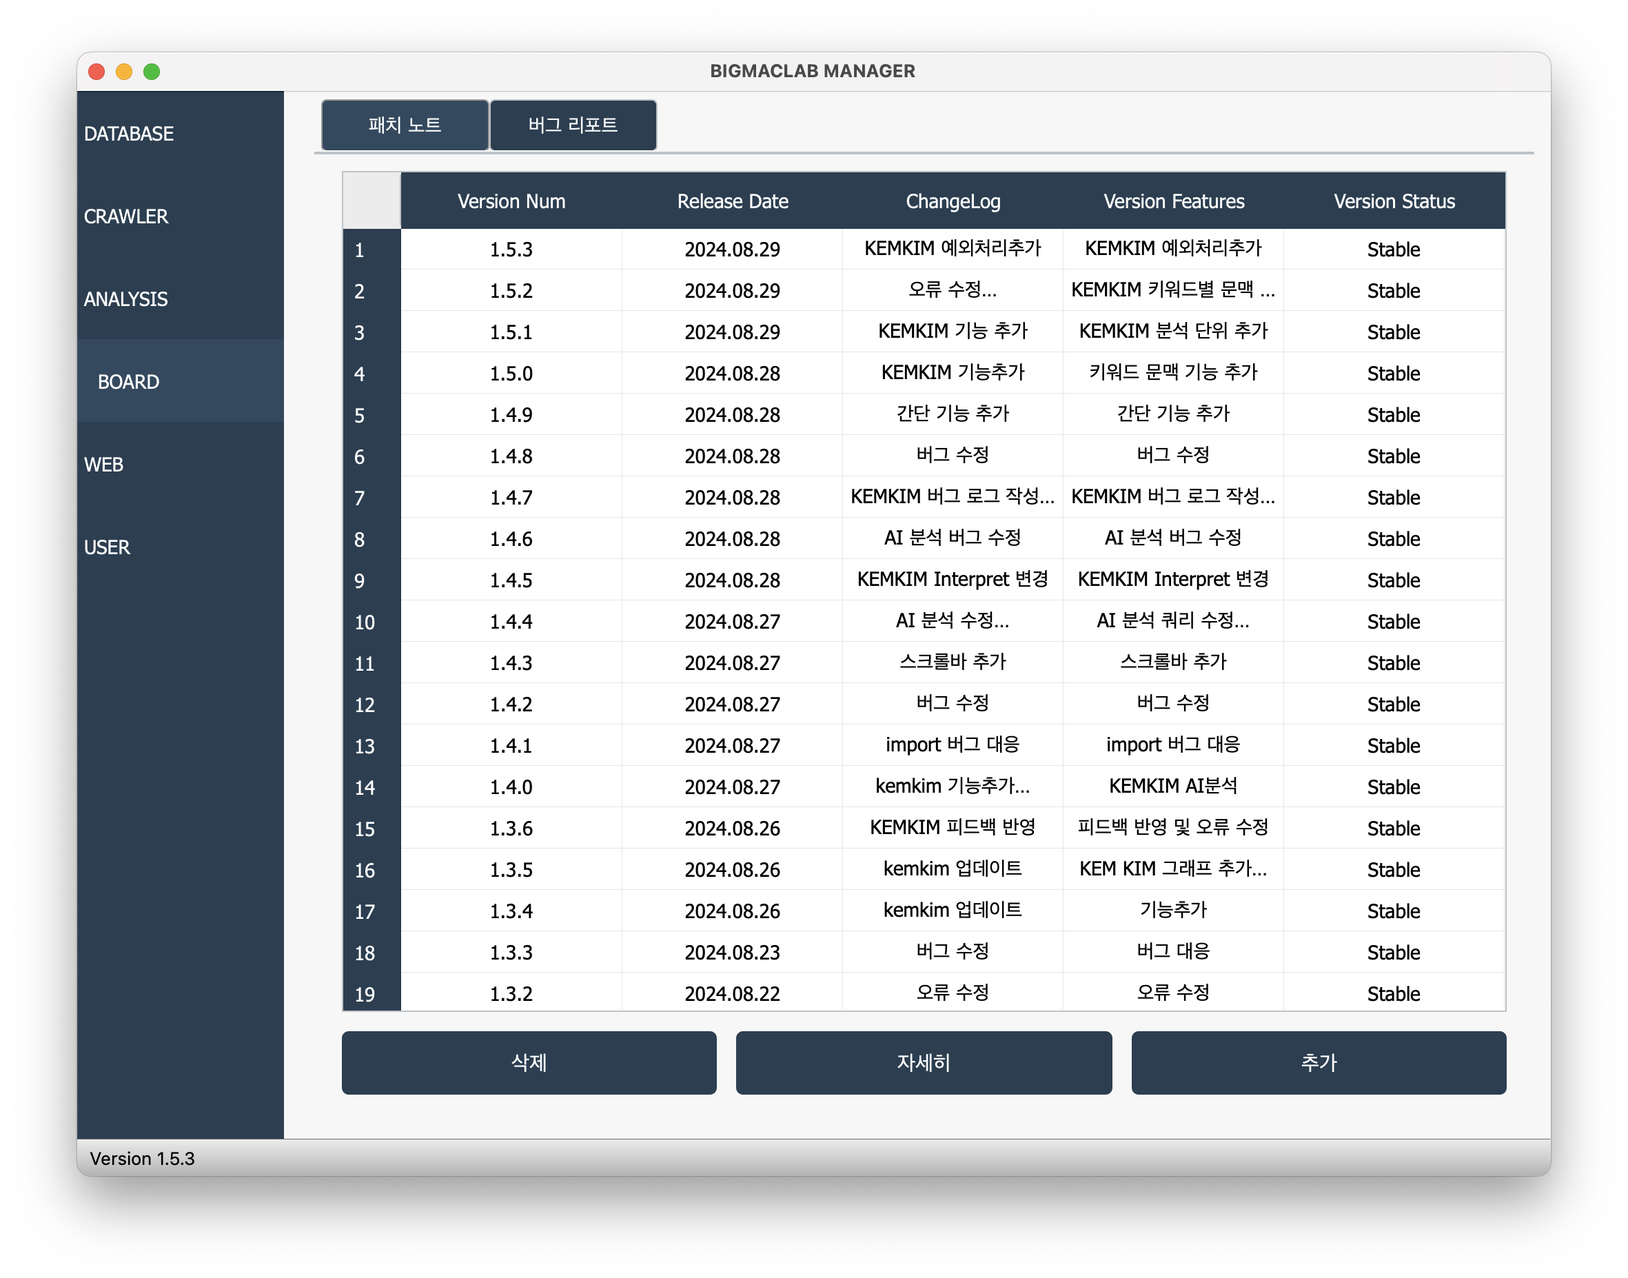
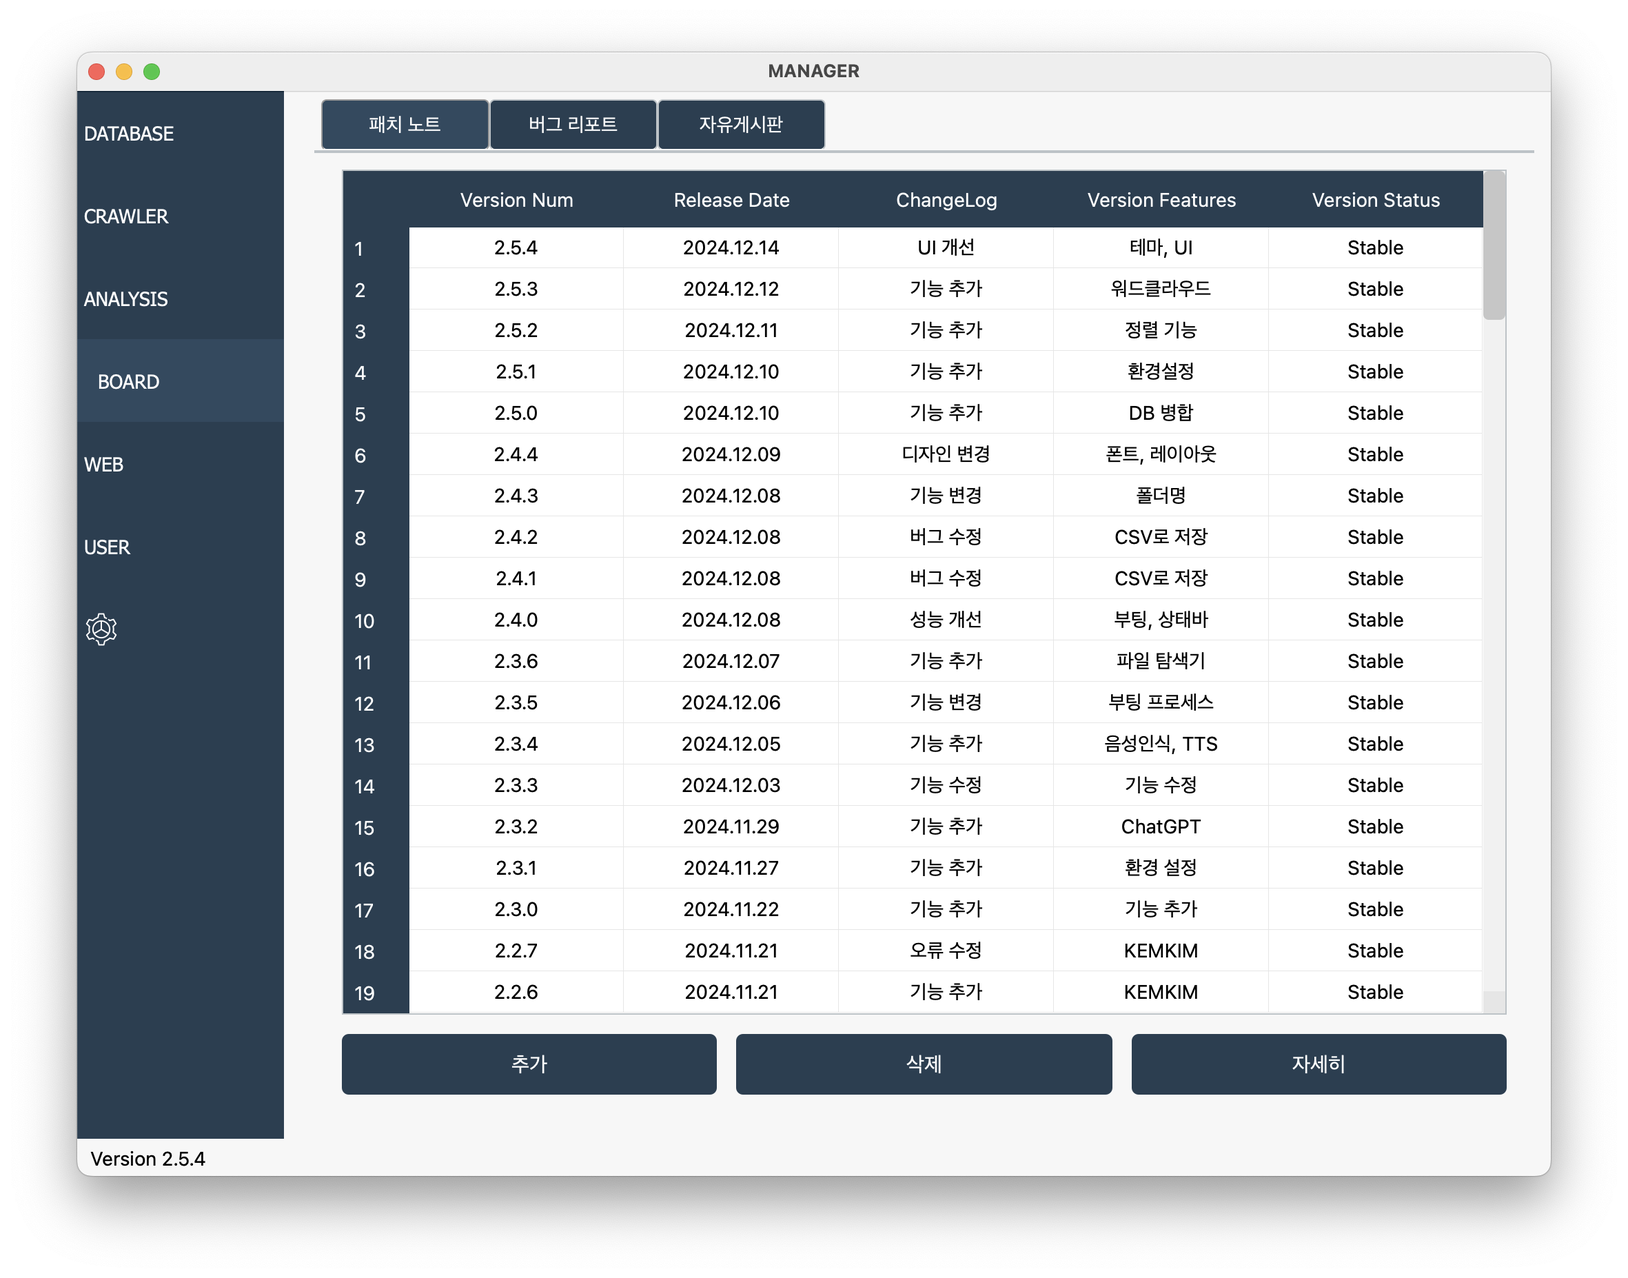
update

diff --git a/public/bigmaclab_manager.html b/public/bigmaclab_manager.html
@@ -194,49 +194,68 @@
         </ul>
 
         <div class="download-section">
-            <h2>Download BIGMACLAB MANAGER</h2>
-            <p>아래 버튼을 클릭하여 최신 버전의 BIGMACLAB MANAGER를 다운로드할 수 있습니다.</p>
+            <h2>Download MANAGER</h2>
+            <p>아래 버튼을 클릭하여 최신 버전의 MANAGER를 다운로드할 수 있습니다.</p>
             <a href="https://knpu.re.kr:90" target="_blank" class="download-button">Download</a>
         </div>
 
         <div class="content">
             <h2 id="database">1. DATABASE</h2>
             <h3>1.1 개요</h3>
-            <p>DATABASE 섹션은 BIGMACLAB MANAGER에서 DB와 관련된 모든 작업을 처리하는 곳입니다. 이 섹션을 통해 사용자는 DB를 불러오고, 갱신하며, 필요한 데이터를 쉽게 조회할 수 있습니다. 또한, DB의 삭제, 조회, 검색, 저장 등의 다양한 기능을 제공합니다.</p>
+            <p>DATABASE 섹션은 MANAGER에서 DB와 관련된 모든 작업을 처리하는 곳입니다. 이 섹션을 통해 사용자는 DB를 불러오고, 갱신하며, 필요한 데이터를 쉽게 조회할 수 있습니다. 또한, DB의 삭제, 조회, 검색, 저장, 병합 등의 다양한 기능을 제공합니다.</p>
             <img src="assets/img/bigmaclab_manager/database.png" alt="Database Overview" style="width: 100%; height: auto;" />
             <h3>1.2 사용 방법</h3>
             <p>DATABASE 섹션의 주요 기능은 다음과 같습니다:</p>
             <ul>
                 <li><strong>DB 삭제</strong></li>
                 <li><strong>DB 조회</strong></li>
+                <li><strong>DB 병합</strong></li>
                 <li><strong>CSV로 저장</strong></li>
             </ul>
 
             <h4>1.2.1 검색</h4>
             <p><button class="button">검색</button></p>
-            <p>검색 창에 검색어를 입력한 후 엔터 키 또는 버튼을 클릭하면, DB 목록에서 해당 검색어가 포함된 항목을 자동으로 찾아 선택합니다. 추가적으로 검색할 경우, 검색은 현재 선택된 행 이후부터 시작되며, 결과가 없을 경우 목록의 처음부터 다시 검색을 시작합니다.</p>
+            <p>검색 창에 검색어를 입력한 후 Enter 키 또는 버튼을 클릭하면, DB 목록에서 해당 검색어가 포함된 항목을 자동으로 찾아 선택합니다. 추가적으로 검색할 경우, 검색은 현재 선택된 행 이후부터 시작되며, 결과가 없을 경우 목록의 처음부터 다시 검색을 시작합니다.</p>
 
             <h4>1.2.2 새로고침</h4>
-            <p><button class="button">새로고침</button></p>
-            <p>버튼을 클릭하면 DB 목록이 최신 상태로 갱신됩니다.</p>
+            <p>Ctrl+R 단축키를 누르면 DB 목록이 최신 상태로 갱신됩니다.</p>
+            <p>자동 새로고침은 환경설정에서 설정 가능합니다.</p>
             
             <h4>1.2.3 DB 삭제</h4>
             <p><button class="button">DB 삭제</button></p>
-            <p>DB를 삭제할 수 있는 기능입니다. DB 목록에서 삭제할 항목을 선택한 후 버튼을 클릭하면, 삭제 확인 메시지가 나타납니다. 크롤링이 진행 중인 데이터베이스를 삭제하려는 경우, 크롤링을 중단할 것인지 묻는 메시지가 나타납니다. 삭제가 완료되면 크롤링이 진행 중인 경우, 크롤링이 중단되며 DB 목록이 새로 고침됩니다.</p>
-            
+            <p>DB를 삭제할 수 있는 기능입니다. 본인의 DB만 삭제할 수 있으며 DB 목록에서 삭제할 항목을 선택한 후 버튼을 클릭하면, 삭제 확인 메시지가 나타납니다.</p>
+            <img src="assets/img/bigmaclab_manager/database_delete_1.png" alt="Database DeleteDialog" style="width: 40%; height: auto;" />
+            <p>크롤링이 진행 중인 데이터베이스를 삭제하려는 경우, 크롤링을 중단할 것인지 묻는 메시지가 나타납니다.</p>
+            <img src="assets/img/bigmaclab_manager/database_delete_2.png" alt="Database DeleteDialog" style="width: 40%; height: auto;" />
+            <p>삭제가 완료되면 크롤링이 진행 중인 경우, 크롤링이 중단되며 DB 목록이 새로고침됩니다.</p>
+
             <h4>1.2.4 DB 조회</h4>
             <p><button class="button">DB 조회</button></p>
             <p>크롤링 데이터를 간단하게 조회할 수 있는 기능입니다. DB 목록에서 조회 항목을 선택한 후 버튼를 클릭하면, 모든 크롤링 데이터의 처음과 끝 50개의 행을 불러와서 보여줍니다.</p>
+            <img src="assets/img/bigmaclab_manager/database_view_1.png" alt="Database ViewDialog" style="width: 40%; height: auto;" />
 
-            <h4>1.2.4 CSV로 저장</h4>
+            <h4>1.2.5 DB 병합</h4>
+            <p><button class="button">DB 병합</button></p>
+            <p>연속된 날짜의 크롤링 데이터를 병합할 수 있는 기능입니다. 병합 가능한 두 DB의 조건은 다음과 같습니다.</p>
+            <img src="assets/img/bigmaclab_manager/database_merge_1.png" alt="Database MergeDialog" style="width: 30%; height: auto;" />
+            <p>병합 가능한 DB가 존재하면 팝업창 DB 리스트에서 병합할 DB를 선택합니다.</p>
+            <img src="assets/img/bigmaclab_manager/database_merge_2.png" alt="Database MergeDialog" style="width: 30%; height: auto;" />
+
+            <h4>1.2.6 CSV로 저장</h4>
             <p><button class="button">CSV로 저장</button></p>
-            <p>데이터베이스를 CSV 파일로 저장할 수 있습니다. 버튼을 클릭하면, 저장할 위치를 선택한 후 전체 기간 저장 또는 특정 기간 저장을 선택할 수 있는 옵션이 나타납니다. 특정 기간을 선택할 경우, 시작 날짜와 종료 날짜를 입력해야 합니다. 저장된 파일은 선택한 디렉토리에 저장됩니다.</p>
-            <div class="warning">
-                <p>주의: 이 기능은 네트워크 상황에 따라 시간이 오래 소요되며, 저장 중에는 프로그램이 멈춘 것처럼 보이나 정상입니다</p>
-            </div>
+            <p>데이터베이스를 CSV 파일로 저장할 수 있습니다. 버튼을 클릭하면, 저장할 위치를 선택하면 저장 옵션을 설정할 수 있습니다.</p> 
+            <img src="assets/img/bigmaclab_manager/database_save_1.png" alt="Database SaveDialog" style="width: 20%; height: auto;" />
+            <p>기간 설정을 클릭 후 날짜를 "%Y%M%D" 형식으로 입력하면 해당 기간에 해당하는 데이터만 다운받을 수 있습니다.</p>
+            <img src="assets/img/bigmaclab_manager/database_save_2.png" alt="Database SaveDialog" style="width: 20%; height: auto;" />
+            <p>필터링 설정을 클릭 후 날짜를 단어를 "단어1, 단어2" 형식으로 입력하면 해당 단어를 포함 또는 제외한 데이터만 다운받을 수 있습니다.</p>
+            <p>포함 문자 옵션: 입력한 단어를 "모두" 또는 "개별"로 포함하는 행만 추출하여 저장합니다</p>
+            <p>제외 문자 옵션: 입력한 단어를 "모두" 또는 "개별"로 제외하는 행만 추출하여 저장합니다</p>
+            <img src="assets/img/bigmaclab_manager/database_save_3.png" alt="Database SaveDialog" style="width: 20%; height: auto;" />
 
-            <h4>1.2.5 DB 정보</h4>
-            <p>크롤링 데이터를 간략하게 확인할 수 있는 기능입니다. DB 목록에서 DB을 선택한 후, 마우스 우클릭을 누르면 정보 열람이 가능합니다. 이 기능은 데이터베이스의 특정 항목을 확인해야 할 때 유용하며, 상세 정보에는 데이터베이스 이름, 크롤링 타입, 키워드, 기간, 옵션, 시작 및 종료 시간, 요청자, 서버, 속도, 크롤링 결과 등이 포함됩니다.</p>
+            <h4>1.2.7 DB 정보</h4>
+            <p>크롤링 데이터를 간략하게 확인할 수 있는 기능입니다. DB 목록에서 DB을 선택한 후, 마우스 우클릭을 누르면 정보 열람이 가능합니다. 이 기능은 데이터베이스의 특정 항목을 확인해야 할 때 유용하며, 상세 정보에는 데이터베이스 이름, 크롤링 타입, 키워드, 기간, 옵션, 시작 및 종료 시간, 요청자, 서버, 크롤링 결과 등이 포함됩니다.</p>
+            <img src="assets/img/bigmaclab_manager/database_info.png" alt="Database SaveDialog" style="width: 40%; height: auto;" />
+
 
             <h2 id="crawler">2. CRAWLER</h2>
             
@@ -265,7 +284,7 @@
             <ul>
                 <li><strong>분할(년/월)</strong></li>
                 <li><strong>CSV 병합</strong></li>
-                <li><strong>데이터 분석</strong></li>
+                <li><strong>통계 분석</strong></li>
                 <li><strong>KEM KIM</strong></li>
             </ul>
             
@@ -275,16 +294,20 @@
 
             <h4>1.2.1.2 CSV 병합</h4>
             <p><button class="button">CSV 병합</button></p>
-            <p>선택한 여러 CSV 파일의 데이터를 병합하여 하나의 CSV로 저장할 수 있습니다. 파일 탐색기에서 여러 개의 CSV 파일을 선택한 뒤에, 하단의 Open 버튼을 클릭하고, 병합 버튼을 클릭하면 병합 파일의 이름을 입력할 수 있는 창이 나옵니다. 이름을 입력하면 선택한 CSV 파일이 위치한 디렉토리에 병합 CSV가 저장됩니다</p>
+            <p>선택한 여러 CSV 파일의 데이터를 병합하여 하나의 CSV로 저장할 수 있습니다. 파일 탐색기에서 여러 개의 CSV 파일을 선택한 뒤에, 하단의 Open 버튼을 클릭하고, 병합 버튼을 클릭하면 병합 파일의 이름을 입력할 수 있는 창이 나옵니다.</p>
+            <img src="assets/img/bigmaclab_manager/analysis_merge.png" alt="Analysis MergeDialog" style="width: 20%; height: auto;" />
+            <p>이름을 입력하면 선택한 CSV 파일이 위치한 디렉토리에 병합 CSV가 저장됩니다.</p>
             <div class="warning">
                 <p>주의: 여러 CSV 파일을 선택한 후 하단의 "Open" 버튼을 클릭해야 선택이 완료되며, 선택한 CSV 파일들의 형식(예: 열 이름)은 같아야 합니다</p>
             </div>
 
-            <h4>1.2.1.3 데이터 분석</h4>
-            <p><button class="button">데이터 분석</button></p>
-            <p>선택한 CSV 파일의 데이터를 여러 지표로 분석합니다. 파일 탐색기에서 분석할 CSV 파일을 선택한 뒤에 버튼을 클릭하고 해당 크롤링 데이터에 맞게 옵션을 선택합니다. 분석 데이터는 해당 크롤링 데이터 CSV의 상위 디렉토리에 저장됩니다</p>
+            <h4>1.2.1.3 통계 분석</h4>
+            <p><button class="button">통계 분석</button></p>
+            <p>선택한 CSV 파일의 데이터를 여러 지표로 분석합니다. 파일 탐색기에서 분석할 CSV 파일을 선택한 뒤에 버튼을 클릭하고 해당 크롤링 데이터에 맞게 옵션을 선택합니다.</p>
+            <img src="assets/img/bigmaclab_manager/analysis_statistics.png" alt="Analysis StatisticsDialog" style="width: 20%; height: auto;" />
+            <p>분석 데이터는 해당 크롤링 데이터 CSV의 상위 디렉토리에 저장됩니다.</p>
             <div class="warning">
-                <p>주의: 크롤링 데이터의 종류와 옵션이 일치해야 합니다.</p>
+                <p>주의: 크롤링 데이터의 종류와 선택한 옵션이 일치해야 합니다.</p>
             </div>
             
             <h4>1.2.1.4 KEM KIM</h4>
@@ -305,24 +328,9 @@
             <p><button class="button">분할(년/월)</button></p>
             <p>DB 내의 테이블 데이터를 년도별 또는 월별로 분할하여 저장할 수 있습니다. DB를 선택 후, 버튼을 클릭한 뒤에 분할 데이터를 저장할 디렉토리를 선택하여 실행합니다</p>
 
-            <h4>1.2.2.2 데이터 분석</h4>
-            <p><button class="button">데이터 분석</button></p>
+            <h4>1.2.2.2 통계 분석</h4>
+            <p><button class="button">통계 분석</button></p>
             <p>DB 내의 모든 테이블 데이터를 여러 지표로 분석합니다. DB를 선택 후, 버튼을 클릭한 뒤에 분할 데이터를 저장할 디렉토리를 선택하여 실행합니다</p>
-
-            <h4>1.2.3 User DB 탭</h4>
-            <p>User DB 탭에서는 사용자가 자신의 데이터베이스를 관리할 수 있습니다. 새로운 데이터를 추가하거나, 기존 데이터를 삭제, 조회, 다운로드할 수 있습니다.</p>
-            <ul>
-                <li><strong>데이터 추가:</strong> <button class="button">추가</button> 버튼을 클릭하여 사용자 데이터베이스에 새로운 데이터를 추가할 수 있습니다.</li>
-                <li><strong>데이터 삭제:</strong> <button class="button">삭제</button> 버튼을 클릭하여 선택된 데이터를 삭제할 수 있습니다.</li>
-                <li><strong>데이터 조회:</strong> <button class="button">조회</button> 버튼을 클릭하여 데이터베이스의 데이터를 조회할 수 있습니다.</li>
-                <li><strong>데이터 다운로드:</strong> <button class="button">다운</button> 버튼을 클릭하여 선택된 데이터를 다운로드할 수 있습니다.</li>
-            </ul>
-
-            <h3>3.3 주의사항</h3>
-            <div class="warning">
-                <p>주의: 데이터 삭제 작업은 되돌릴 수 없습니다. 데이터를 삭제하기 전에 신중하게 검토하십시오.</p>
-            </div>
-
 
             <h2 id="board">4. BOARD</h2>
             
@@ -332,17 +340,20 @@
             <h3>4.2 사용 방법</h3>
             <p>BOARD 섹션에서 수행할 수 있는 작업은 다음과 같습니다:</p>
             <ul>
-                <li><strong>버전 관리:</strong></li>
+                <li><strong>패치 노트</strong></li>
                 <li><strong>버그 리포트:</strong></li>
+                <li><strong>자유게시판</strong></li>
             </ul>
 
             <h4>4.2.1 버전 추가</h4>
             <p><button class="button">추가</button></p>
             <p>버튼을 클릭하면 새로운 프로그램 버전을 추가할 수 있는 창이 열립니다. 여기서 버전 번호, 릴리스 날짜, 변경 사항 등을 입력할 수 있습니다. MANAGER Admin만 사용할 수 있는 기능입니다</p>
+            <img src="assets/img/bigmaclab_manager/board_version_1.png" alt="Analysis VersionDialog" style="width: 20%; height: auto;" />
             
             <h4>4.2.2 버전 자세히</h4>
             <p><button class="button">자세히</button></p>
             <p>버튼을 클릭하면 해당 버전에 대한 자세한 정보를 열람할 수 있습니다</p>
+            <img src="assets/img/bigmaclab_manager/board_version_2.png" alt="Analysis VersionDialog" style="width: 20%; height: auto;" />
 
             <h4>4.2.3 버전 삭제</h4>
             <p><button class="button">삭제</button></p>
@@ -351,14 +362,34 @@
             <h4>4.2.4 버그 추가</h4>
             <p><button class="button">추가</button></p>
             <p>버튼을 클릭하면 발견된 버그를 기록할 수 있는 창이 열립니다. 여기서 버그의 제목, 상세 내용을 입력할 수 있습니다.</p>
+            <img src="assets/img/bigmaclab_manager/board_bug_1.png" alt="Analysis BugDialog" style="width: 20%; height: auto;" />
             
             <h4>4.2.5 버그 자세히</h4>
             <p><button class="button">자세히</button></p>
             <p>버튼을 클릭하면 해당 버그에 대한 자세한 정보를 열람할 수 있습니다</p>
+            <img src="assets/img/bigmaclab_manager/board_bug_2.png" alt="Analysis BugDialog" style="width: 20%; height: auto;" />
 
             <h4>4.2.6 버그 삭제</h4>
             <p><button class="button">삭제</button></p>
-            <p>버튼을 클릭하면 선택된 버그 리포트를 삭제할 수 있습니다. 이 기능도 신중하게 사용해야 합니다.</p>
+            <p>버튼을 클릭하면 선택된 버그 리포트를 삭제할 수 있습니다.</p>
+
+            <h4>4.2.7 게시물 추가</h4>
+            <p><button class="button">추가</button></p>
+            <p>버튼을 클릭하면 게시물을 추가할 수 있는 창이 나타납니다. 제목, 비밀번호, 내용을 입력할 수 있습니다</p>
+            <img src="assets/img/bigmaclab_manager/board_post_1.png" alt="Analysis PostDialog" style="width: 20%; height: auto;" />
+            
+            <h4>4.2.8 게시물 자세히</h4>
+            <p><button class="button">자세히</button></p>
+            <p>버튼을 클릭하면 해당 게시물 대한 자세한 정보를 열람할 수 있습니다</p>
+            <img src="assets/img/bigmaclab_manager/board_post_2.png" alt="Analysis PostDialog" style="width: 20%; height: auto;" />
+
+            <h4>4.2.9 게시물 삭제</h4>
+            <p><button class="button">삭제</button></p>
+            <p>버튼을 클릭하면 선택된 버그 리포트를 삭제할 수 있습니다.</p>
+
+            <h4>4.2.10 게시물 수정</h4>
+            <p><button class="button">수정</button></p>
+            <p>버튼을 클릭하면 선택된 버그 리포트를 삭제할 수 있습니다.</p>
 
 
             <h2 id="web">5. WEB</h2>
@@ -372,11 +403,6 @@
                 <li><strong>웹사이트 탐색:</strong> 프로그램 내에서 제공하는 웹사이트를 탐색할 수 있습니다.</li>
             </ul>
 
-            <h3>5.3 주의사항</h3>
-            <div class="warning">
-                <p>주의: 웹사이트 탐색 중 인터넷 연결이 불안정하면 페이지 로딩에 문제가 발생할 수 있습니다. 안정적인 네트워크 환경에서 사용하세요.</p>
-            </div>
-
             <h2 id="user">6. USER</h2>
             
             <h3>6.1 개요</h3>
@@ -385,9 +411,8 @@
             <h3>6.2 사용 방법</h3>
             <p>USER 섹션의 주요 작업은 다음과 같습니다:</p>
             <ul>
-                <li><strong>사용자 추가</strong></li>
-                <li><strong>사용자 삭제</strong></li>
-                <li><strong>사용자 정보 수정</strong></li>
+                <li><strong>User List</strong></li>
+                <li><strong>User DB</strong></li>
             </ul>
 
             <h4>6.2.1 사용자 추가</h4>
@@ -397,6 +422,20 @@
             <h4>6.2.2 사용자 삭제</h4>
             <p><button class="button">사용자 삭제</button></p>
             <p>리스트에서 사용자를 선택하고 버튼을 클릭하면 선택된 사용자를 삭제할 수 있습니다. MANAGER Admin만 사용할 수 있는 기능입니다</p>
+
+            <h4>6.2.3 User DB 탭</h4>
+            <p>User DB 탭에서는 사용자가 자신의 데이터베이스를 관리할 수 있습니다. 새로운 데이터를 추가하거나, 기존 데이터를 삭제, 조회, 다운로드할 수 있습니다.</p>
+            <ul>
+                <li><strong>데이터 추가:</strong> <button class="button">추가</button> 버튼을 클릭하여 사용자 데이터베이스에 새로운 데이터를 추가할 수 있습니다.</li>
+                <li><strong>데이터 삭제:</strong> <button class="button">삭제</button> 버튼을 클릭하여 선택된 데이터를 삭제할 수 있습니다.</li>
+                <li><strong>데이터 조회:</strong> <button class="button">조회</button> 버튼을 클릭하여 데이터베이스의 데이터를 조회할 수 있습니다.</li>
+                <li><strong>데이터 다운로드:</strong> <button class="button">다운</button> 버튼을 클릭하여 선택된 데이터를 다운로드할 수 있습니다.</li>
+            </ul>
+
+            <h2 id="user">7. SETTING</h2>
+            <h3>7.1 개요</h3>
+            <p>SETTING 섹션은 프로그램 내의 환경설정 기능입니다.</p>
+            <img src="assets/img/bigmaclab_manager/settings.png" alt="User Overview" style="width: 100%; height: auto;" />
         </div>
         <div class="contact-section">
             <h2>Developer</h2>
